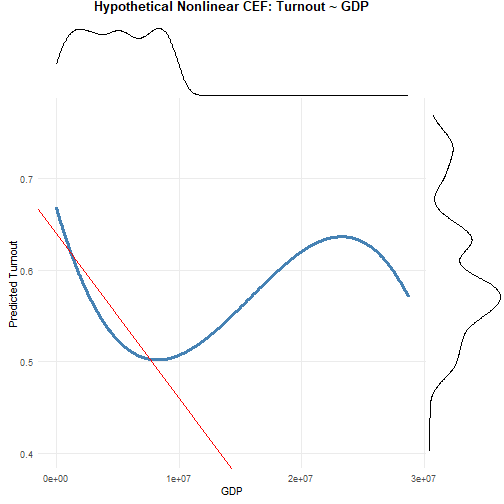
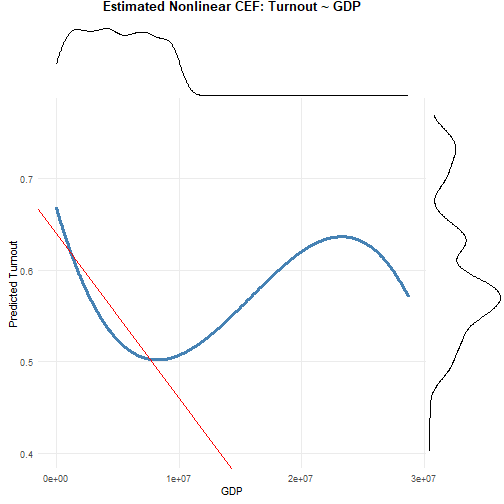
ovb

diff --git a/Slides/OmittedVariableBias.html b/Slides/OmittedVariableBias.html
@@ -314,7 +314,7 @@ plot_data &lt;- data.frame(GDP = gdp_seq, Turnout = turnout_pred)
 turnoutplot &lt;- ggplot(plot_data, aes(x = GDP, y = Turnout)) +
   geom_line(linewidth = 1.2, color = "steelblue") +
   labs(
-    title = "Hypothetical Nonlinear CEF: Turnout ~ GDP",
+    title = "Estimated Nonlinear CEF: Turnout ~ GDP",
     x = "GDP",
     y = "Predicted Turnout"
   ) +
